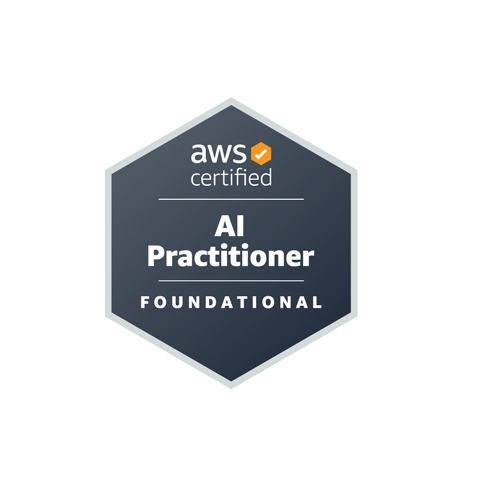
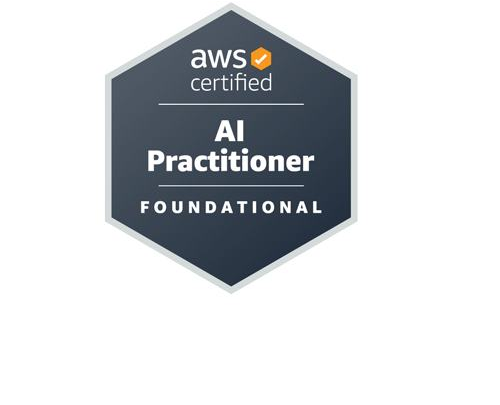
수정: 자격증 만료 정보 제거와 배지 상단 정렬
이유: 자격증의 만료 필드와 기간 비교, 표시 설정 및 화면 출력을 제거하고 취득일만 선택적으로 표시한다. 배지 두 개의 위쪽 흰 여백 95px을 잘라내고 기존 96px 영역에서 object-top으로 정렬한다. 이미지 가로 해상도와 도안 크기는 유지한다. sips가 크기를 변경하지 않아 macOS 이미지 API로 동일한 영역을 잘라냈다.

검증: npm run verify 통과(astro check, Biome, 기존 Vitest 86개, 정적 빌드). 이미지 변경 후 빌드도 통과했다. 생성 HTML에서 만료 정보 제거, SAA 취득일 유지, 날짜 없는 자격의 날짜 영역 생략과 상단 정렬 CSS를 확인했다. 배지 도안이 잘리지 않았음을 이미지 열람으로 확인했고 500x405px 산출물과 public 자산의 해시가 일치한다. 테스트 코드는 변경하지 않았다.

미검증: 연결된 브라우저가 없어 실제 화면의 정렬·줄바꿈·넘침은 확인하지 못했다. 원격 push와 배포는 수행하지 않는다.

Changed region(s): [[0.21, 0.0, 0.72, 0.8]]

diff --git a/src/components/resume/CertificationItem.tsx b/src/components/resume/CertificationItem.tsx
@@ -7,7 +7,7 @@ export function CertificationItem({
   labels,
 }: {
   certification: ResumeData["certifications"][number];
-  labels: Pick<ResumeDisplay["labels"], "issuedAt" | "expiresAt">;
+  labels: Pick<ResumeDisplay["labels"], "issuedAt">;
 }) {
   return (
     <article className="flex min-w-0 flex-col items-start gap-content border-rule not-first:border-t not-first:pt-item sm:flex-row">
@@ -15,7 +15,7 @@ export function CertificationItem({
         <img
           src={assetUrl(certification.badge.src)}
           alt={certification.badge.alt}
-          className="size-certification-badge max-w-full shrink-0 object-contain"
+          className="size-certification-badge max-w-full shrink-0 object-contain object-top"
           loading="lazy"
         />
       )}
@@ -24,20 +24,12 @@ export function CertificationItem({
           {certification.name}
         </h3>
         <p>{certification.issuer}</p>
-        {(certification.issuedAt || certification.expiresAt) && (
+        {certification.issuedAt && (
           <dl className="flex flex-wrap gap-x-content gap-y-inline text-meta text-muted">
-            {certification.issuedAt && (
-              <div className="flex flex-wrap gap-inline">
-                <dt>{labels.issuedAt}</dt>
-                <dd>{certification.issuedAt}</dd>
-              </div>
-            )}
-            {certification.expiresAt && (
-              <div className="flex flex-wrap gap-inline">
-                <dt>{labels.expiresAt}</dt>
-                <dd>{certification.expiresAt}</dd>
-              </div>
-            )}
+            <div className="flex flex-wrap gap-inline">
+              <dt>{labels.issuedAt}</dt>
+              <dd>{certification.issuedAt}</dd>
+            </div>
           </dl>
         )}
         {certification.verificationLink && (

diff --git a/src/models/authoring.ts b/src/models/authoring.ts
@@ -45,23 +45,18 @@ const education = z
   .superRefine((entry, context) =>
     validatePeriod(entry.startDate, entry.endDate, context, "endDate"),
   );
-const certification = z
-  .strictObject({
-    name: textSchema,
-    issuer: textSchema,
-    issuedAt: dateSchema.optional(),
-    expiresAt: dateSchema.optional(),
-    badge: imageSchema.optional(),
-    verificationLink: webLinks
-      .refine(
-        (links) => Object.keys(links).length === 1,
-        "확인 링크는 이름과 주소 한 쌍으로 작성합니다.",
-      )
-      .optional(),
-  })
-  .superRefine((entry, context) =>
-    validatePeriod(entry.issuedAt, entry.expiresAt, context, "expiresAt"),
-  );
+const certification = z.strictObject({
+  name: textSchema,
+  issuer: textSchema,
+  issuedAt: dateSchema.optional(),
+  badge: imageSchema.optional(),
+  verificationLink: webLinks
+    .refine(
+      (links) => Object.keys(links).length === 1,
+      "확인 링크는 이름과 주소 한 쌍으로 작성합니다.",
+    )
+    .optional(),
+});
 
 export const resumeAuthoringSchema = z.strictObject({
   profile: z.strictObject({

diff --git a/src/models/resume.ts b/src/models/resume.ts
@@ -54,18 +54,13 @@ export const educationSchema = z
     validatePeriod(entry.startDate, entry.endDate, context, "endDate"),
   );
 
-export const certificationSchema = z
-  .strictObject({
-    name: textSchema,
-    issuer: textSchema,
-    issuedAt: dateSchema.optional(),
-    expiresAt: dateSchema.optional(),
-    badge: imageSchema.optional(),
-    verificationLink: webLinkSchema.optional(),
-  })
-  .superRefine((entry, context) =>
-    validatePeriod(entry.issuedAt, entry.expiresAt, context, "expiresAt"),
-  );
+export const certificationSchema = z.strictObject({
+  name: textSchema,
+  issuer: textSchema,
+  issuedAt: dateSchema.optional(),
+  badge: imageSchema.optional(),
+  verificationLink: webLinkSchema.optional(),
+});
 
 export const resumeSchema = z.strictObject({
   profile: z.strictObject({

diff --git a/src/config/resume-display.ts b/src/config/resume-display.ts
@@ -12,6 +12,5 @@ export const resumeDisplayConfig = {
     current: "현재",
     projectRole: "담당 역할",
     issuedAt: "취득",
-    expiresAt: "만료",
   },
 } satisfies ResumeDisplay;

diff --git a/src/models/presentation.ts b/src/models/presentation.ts
@@ -20,7 +20,6 @@ export const displaySchema = z.strictObject({
     current: textSchema,
     projectRole: textSchema,
     issuedAt: textSchema,
-    expiresAt: textSchema,
   }),
 });
 

diff --git a/docs/development.md b/docs/development.md
@@ -71,7 +71,7 @@ Tailwind는 @tailwindcss/vite로 통합한다. 레이아웃에서 테마값을 C
 | projects | title, description(제품 소개), role?, highlights, technologies, links |
 | skills | category, items(content: RichText) |
 | education | institution, program, startDate?, endDate?, description? |
-| certifications | name, issuer, issuedAt?, expiresAt?, badge?, verificationLink? |
+| certifications | name, issuer, issuedAt?, badge?, verificationLink? |
 
 문장인 content·description·프로젝트 role은 문단 배열이다. 각 문단은 인라인 노드 목록을 가지며 strong·emphasis·link는 자식 노드를 갖는다. 일반 줄바꿈은 텍스트 안에 보존하고 Markdown의 명시적 줄바꿈은 break 노드로 표현한다. 렌더러는 텍스트를 이스케이프해야 하며 HTML을 직접 삽입하지 않는다. 이미지 구조는 `{ src, alt }`이며 루트 상대 경로 또는 HTTP(S) 주소를 사용한다. 링크는 HTTP(S), 프로필 링크는 추가로 mailto·tel을 허용한다. 주소의 형식을 검증하며 실제 접근 가능 여부는 검사하지 않는다.
 
@@ -105,4 +105,4 @@ GitHub Pages는 main push의 검사 성공 후 dist artifact를 배포한다. SI
 
 ResumePage는 다섯 섹션의 표시 설정을 순서대로 처리한다. 기술은 빈 분류를 제외한 뒤 남은 분류가 없으면 섹션을 생략한다. SkillGroup·EducationItem·CertificationItem의 props는 ResumeData의 해당 항목 타입을 사용한다. SkillGroup은 Highlights를 재사용해 기술명과 설명을 세로 글머리표 목록으로 표시하고 Markdown 강조를 렌더링한다. 단순 기술명도 동일한 목록 구조로 표시한다.
 
-각 분류·기관·자격 이름은 h3로 표시하고 공통 ResumeSection의 반응형 배치를 재사용한다. 학력 설명은 RichText로 렌더링한다. 학력 기간은 양쪽 값이 있을 때만 구분자를 표시하며 날짜 정밀도를 바꾸지 않는다. 자격 취득·만료 문구는 표시 설정에서 받고 값이 없는 정보는 생략한다. 배지는 assetUrl로 배포 경로를 반영하며 이미지가 없으면 빈 열을 만들지 않는다.
+각 분류·기관·자격 이름은 h3로 표시하고 공통 ResumeSection의 반응형 배치를 재사용한다. 학력 설명은 RichText로 렌더링한다. 학력 기간은 양쪽 값이 있을 때만 구분자를 표시하며 날짜 정밀도를 바꾸지 않는다. 자격 취득 문구는 표시 설정에서 받고 날짜가 없으면 날짜 영역을 생략한다. 자격 만료 필드는 지원하지 않는다. 배지는 assetUrl로 배포 경로를 반영하며 이미지가 없으면 빈 열을 만들지 않는다. 배지는 테마의 certificationBadge 크기 영역에서 비율을 유지해 상단 정렬한다. 현재 PNG 배지 두 개는 도안의 크기를 유지하면서 위쪽 흰 여백만 제거한 자산을 사용한다.

diff --git a/AGENTS.md b/AGENTS.md
@@ -4,10 +4,10 @@
 
 ## 현재 단계
 
-- 현재: 기술 섹션에 Markdown 문장형 설명을 지원하고 3개 분류·10개 문장을 반영했다. 이번 기술 변경은 로컬에만 반영했다. main push 시 검사를 통과하면 https://0-chan.github.io/cv/에 자동 배포한다.
-- 검증: 기술 변경의 타입·Biome·기존 테스트 86개·정적 빌드가 통과했다. 생성 HTML에서 분류·문장 순서와 strong 강조, 목록 간격·들여쓰기 연결을 확인했다. 현재 연결된 브라우저가 없어 실제 줄바꿈·넘침은 미검증이며 기존 favicon 탭 표시·반응형·키보드·설정 변경 화면과 실제 실패 빌드 확인도 남아 있다.
-- 다음: 기술 설명을 포함한 실제 이력서의 브라우저 화면을 검증한다. 원격 push·재배포는 별도 요청으로 진행하고 0-chan.cv 도메인 연결은 맨 마지막에 한다.
-- Husky hook은 유지한다. 승인받은 YAML 테스트 한 건만 수정했으며 테스트 수는 86개로 유지했다.
+- 현재: 자격증 만료 필드·설정·표시를 제거했다. 배지 두 개의 위쪽 흰 여백 95px을 제거하고 96px 영역 안에서 상단 정렬한다. 기술 설명 3개 분류·10개 문장과 이번 자격 변경은 로컬에만 반영했다. main push 시 검사를 통과하면 https://0-chan.github.io/cv/에 자동 배포한다.
+- 검증: 타입·Biome·기존 테스트 86개·정적 빌드가 통과했다. 생성 HTML에서 만료 정보 제거·취득일 유지·날짜 없는 항목의 날짜 영역 생략과 상단 정렬 CSS를 확인했다. 잘라낸 배지 도안과 빌드 산출물 크기도 확인했다. 연결된 브라우저가 없어 실제 정렬·줄바꿈·넘침은 미검증이며 기존 favicon 탭 표시·반응형·키보드·설정 변경 화면과 실제 실패 빌드 확인도 남아 있다.
+- 다음: 기술 설명·자격증 변경을 포함한 실제 이력서의 브라우저 화면을 검증한다. 원격 push·재배포는 별도 요청으로 진행하고 0-chan.cv 도메인 연결은 맨 마지막에 한다.
+- Husky hook은 유지한다. 이번 변경에서는 테스트 코드를 수정하지 않았으며 테스트 수는 86개로 유지했다.
 
 ## 작업 규칙
 

diff --git a/README.md b/README.md
@@ -126,7 +126,7 @@ summary:
 - 회사 요약(`highlights`)과 프로젝트(`projects`)는 각각 생략할 수 있습니다. 배열에 적은 순서가 유지됩니다.
 - 날짜는 `startDate: "2024"`, `endDate: "2024-03"`처럼 따옴표를 붙인 연도·연월입니다. 일 단위는 지원하지 않습니다.
 - 현재 재직은 `isCurrent: true`로 명시하고 종료일을 생략합니다. 종료일 누락만으로 현재 재직으로 판단하지 않습니다.
-- 자격 날짜는 `issuedAt`, `expiresAt`입니다. `verificationLink`는 표시 이름과 주소 한 쌍입니다.
+- 자격 취득 날짜는 선택 필드인 `issuedAt`으로 입력합니다. `verificationLink`는 표시 이름과 주소 한 쌍입니다.
 - 회사 로고는 회사 항목의 `logo`, 자격 배지는 `badge`에 `{ src: /images/example.png, alt: 이미지 설명 }` 형태로 입력합니다.
 - 선택값은 필드를 생략합니다. 빈 문자열·공백만 있는 문장·`null`은 오류입니다. 전화번호처럼 숫자로 보이는 문자열에도 따옴표를 붙입니다.
 - 문단은 빈 줄로 구분합니다. `|`는 줄바꿈을 보존하고 `>`는 줄을 이어 쓰는 YAML 문법입니다. Markdown의 명시적 줄바꿈은 두 공백 또는 역슬래시 뒤 줄바꿈으로 작성합니다.
